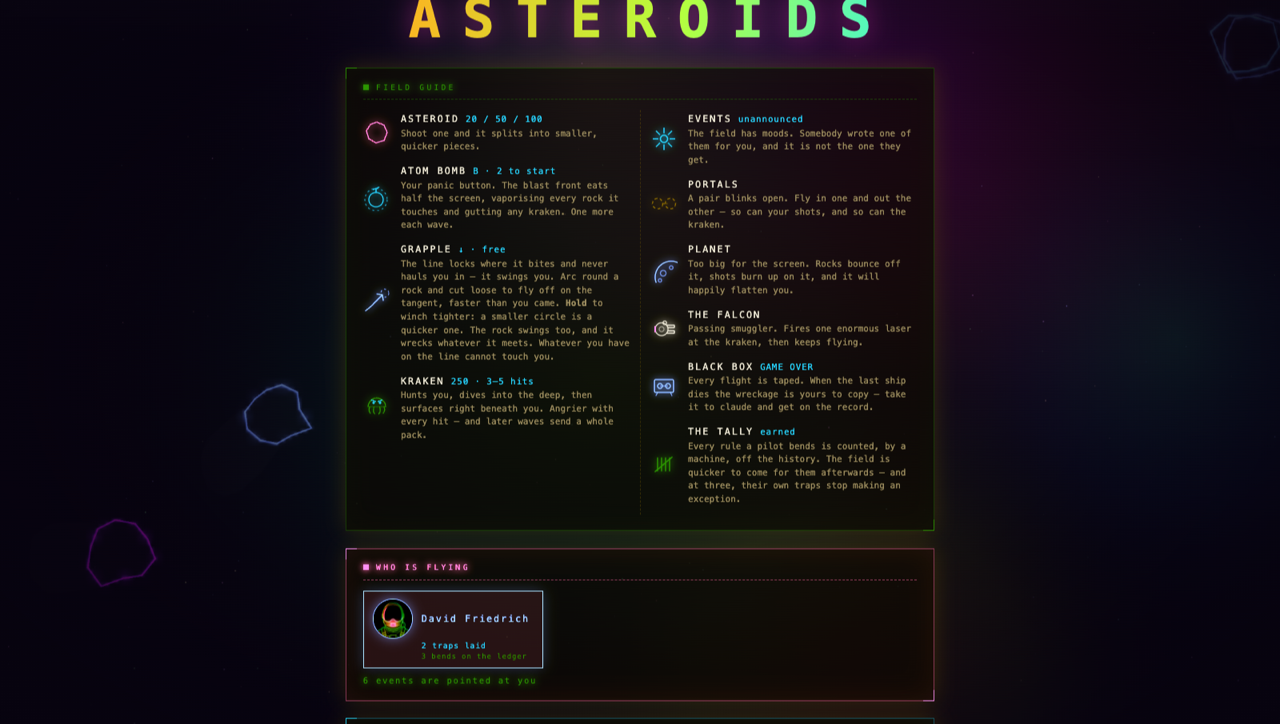
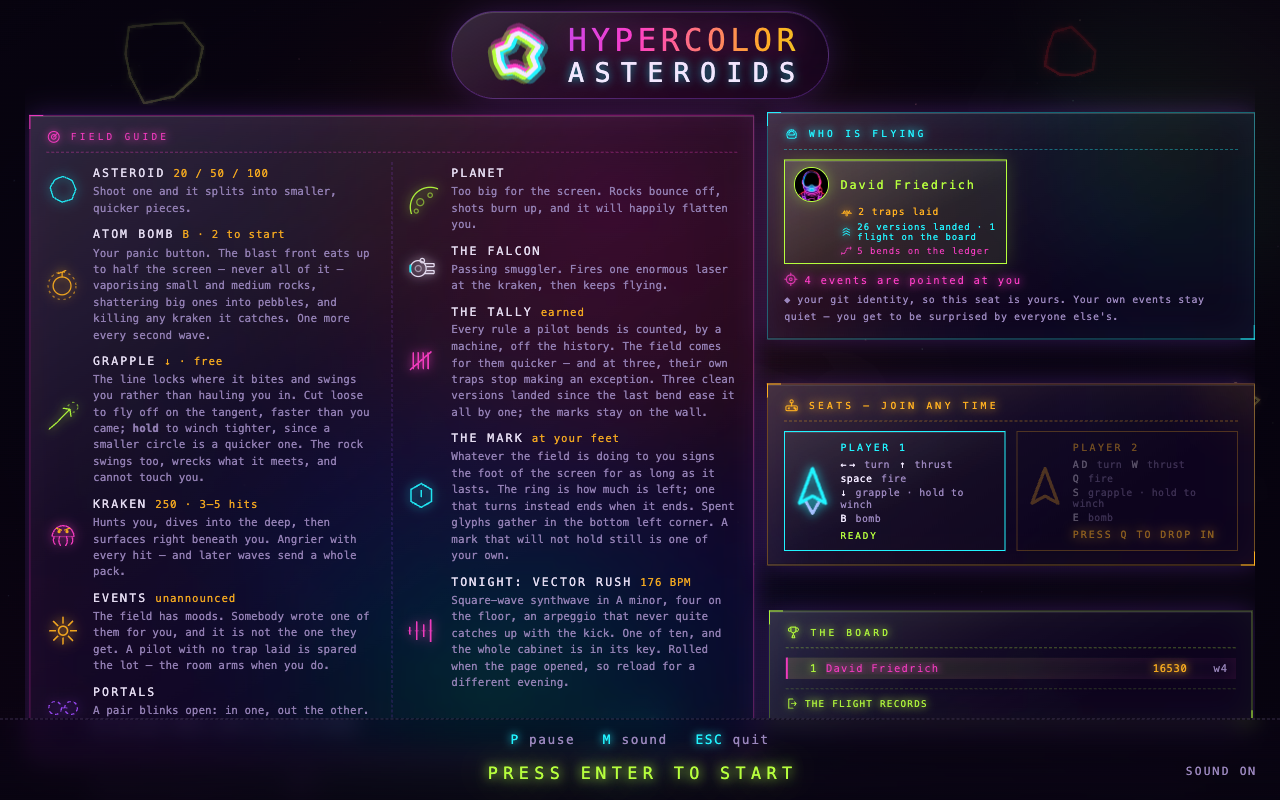
The pictures on the wall are of the game that is in the cabinet now
The four screenshots in the README were taken two days and eleven versions
ago, and it shows: the splash in cabinet.png has no logo on it, no pilot
card, no board and no seats, and the three field shots are mostly empty sky
with something small and dim in the middle of it.

All four are reshot, staged frame by frame against a live build and held
still for the shutter. field.png is now two pilots, a kraken, both portals
and a grapple arc in the same frame, which is what its caption has been
claiming all along. swing.png finally shows the arc big enough to read.
planet.png has a rock bouncing off the limb and a line of shots burning up
on it.

Two are new, and both are things the README lists and has never shown: the
atom bomb, which for a button that eats half the screen is an odd omission,
and the Falcon, photographed doing the one thing it ever does.

media/splash-1280.png goes the way of chronicle.png and land-play.png in
0f23281 - a working screenshot from v1 that nothing has ever linked to.

Nothing in the cabinet moved. This is the poster outside it.

Chronicle: The cabinet sat for its portrait again, and this time made sure
           the kraken, the grapple and the atom bomb were all in the shot.

diff --git a/docs/readme.html b/docs/readme.html
@@ -50,7 +50,13 @@ play and to build — including what a Windows machine needs — is in
 <img src="../media/swing.png" alt="The grapple: the dotted circle is the arc the line will hold you to, and you leave on the tangent" loading="lazy" decoding="async">
 </p>
 <p>
-<img src="../media/planet.png" alt="A planet crossing the field, with rocks bouncing off the limb" loading="lazy" decoding="async">
+<img src="../media/bomb.png" alt="The atom bomb going off: the front eats up to half the screen, never all of it, and the kraken to the right of it has about a second left" loading="lazy" decoding="async">
+</p>
+<p>
+<img src="../media/falcon.png" alt="The Falcon crossing the field, putting one enormous laser through a kraken on its way past" loading="lazy" decoding="async">
+</p>
+<p>
+<img src="../media/planet.png" alt="A planet crossing the field, with a rock bouncing off the limb and shots burning up on it" loading="lazy" decoding="async">
 </p>
 <h2 id="how-it-s-put-together">How it's put together</h2>
 <p>

diff --git a/README.md b/README.md
@@ -35,7 +35,11 @@ play and to build — including what a Windows machine needs — is in
 
 ![The grapple: the dotted circle is the arc the line will hold you to, and you leave on the tangent](media/swing.png)
 
-![A planet crossing the field, with rocks bouncing off the limb](media/planet.png)
+![The atom bomb going off: the front eats up to half the screen, never all of it, and the kraken to the right of it has about a second left](media/bomb.png)
+
+![The Falcon crossing the field, putting one enormous laser through a kraken on its way past](media/falcon.png)
+
+![A planet crossing the field, with a rock bouncing off the limb and shots burning up on it](media/planet.png)
 
 ## How it's put together
 
